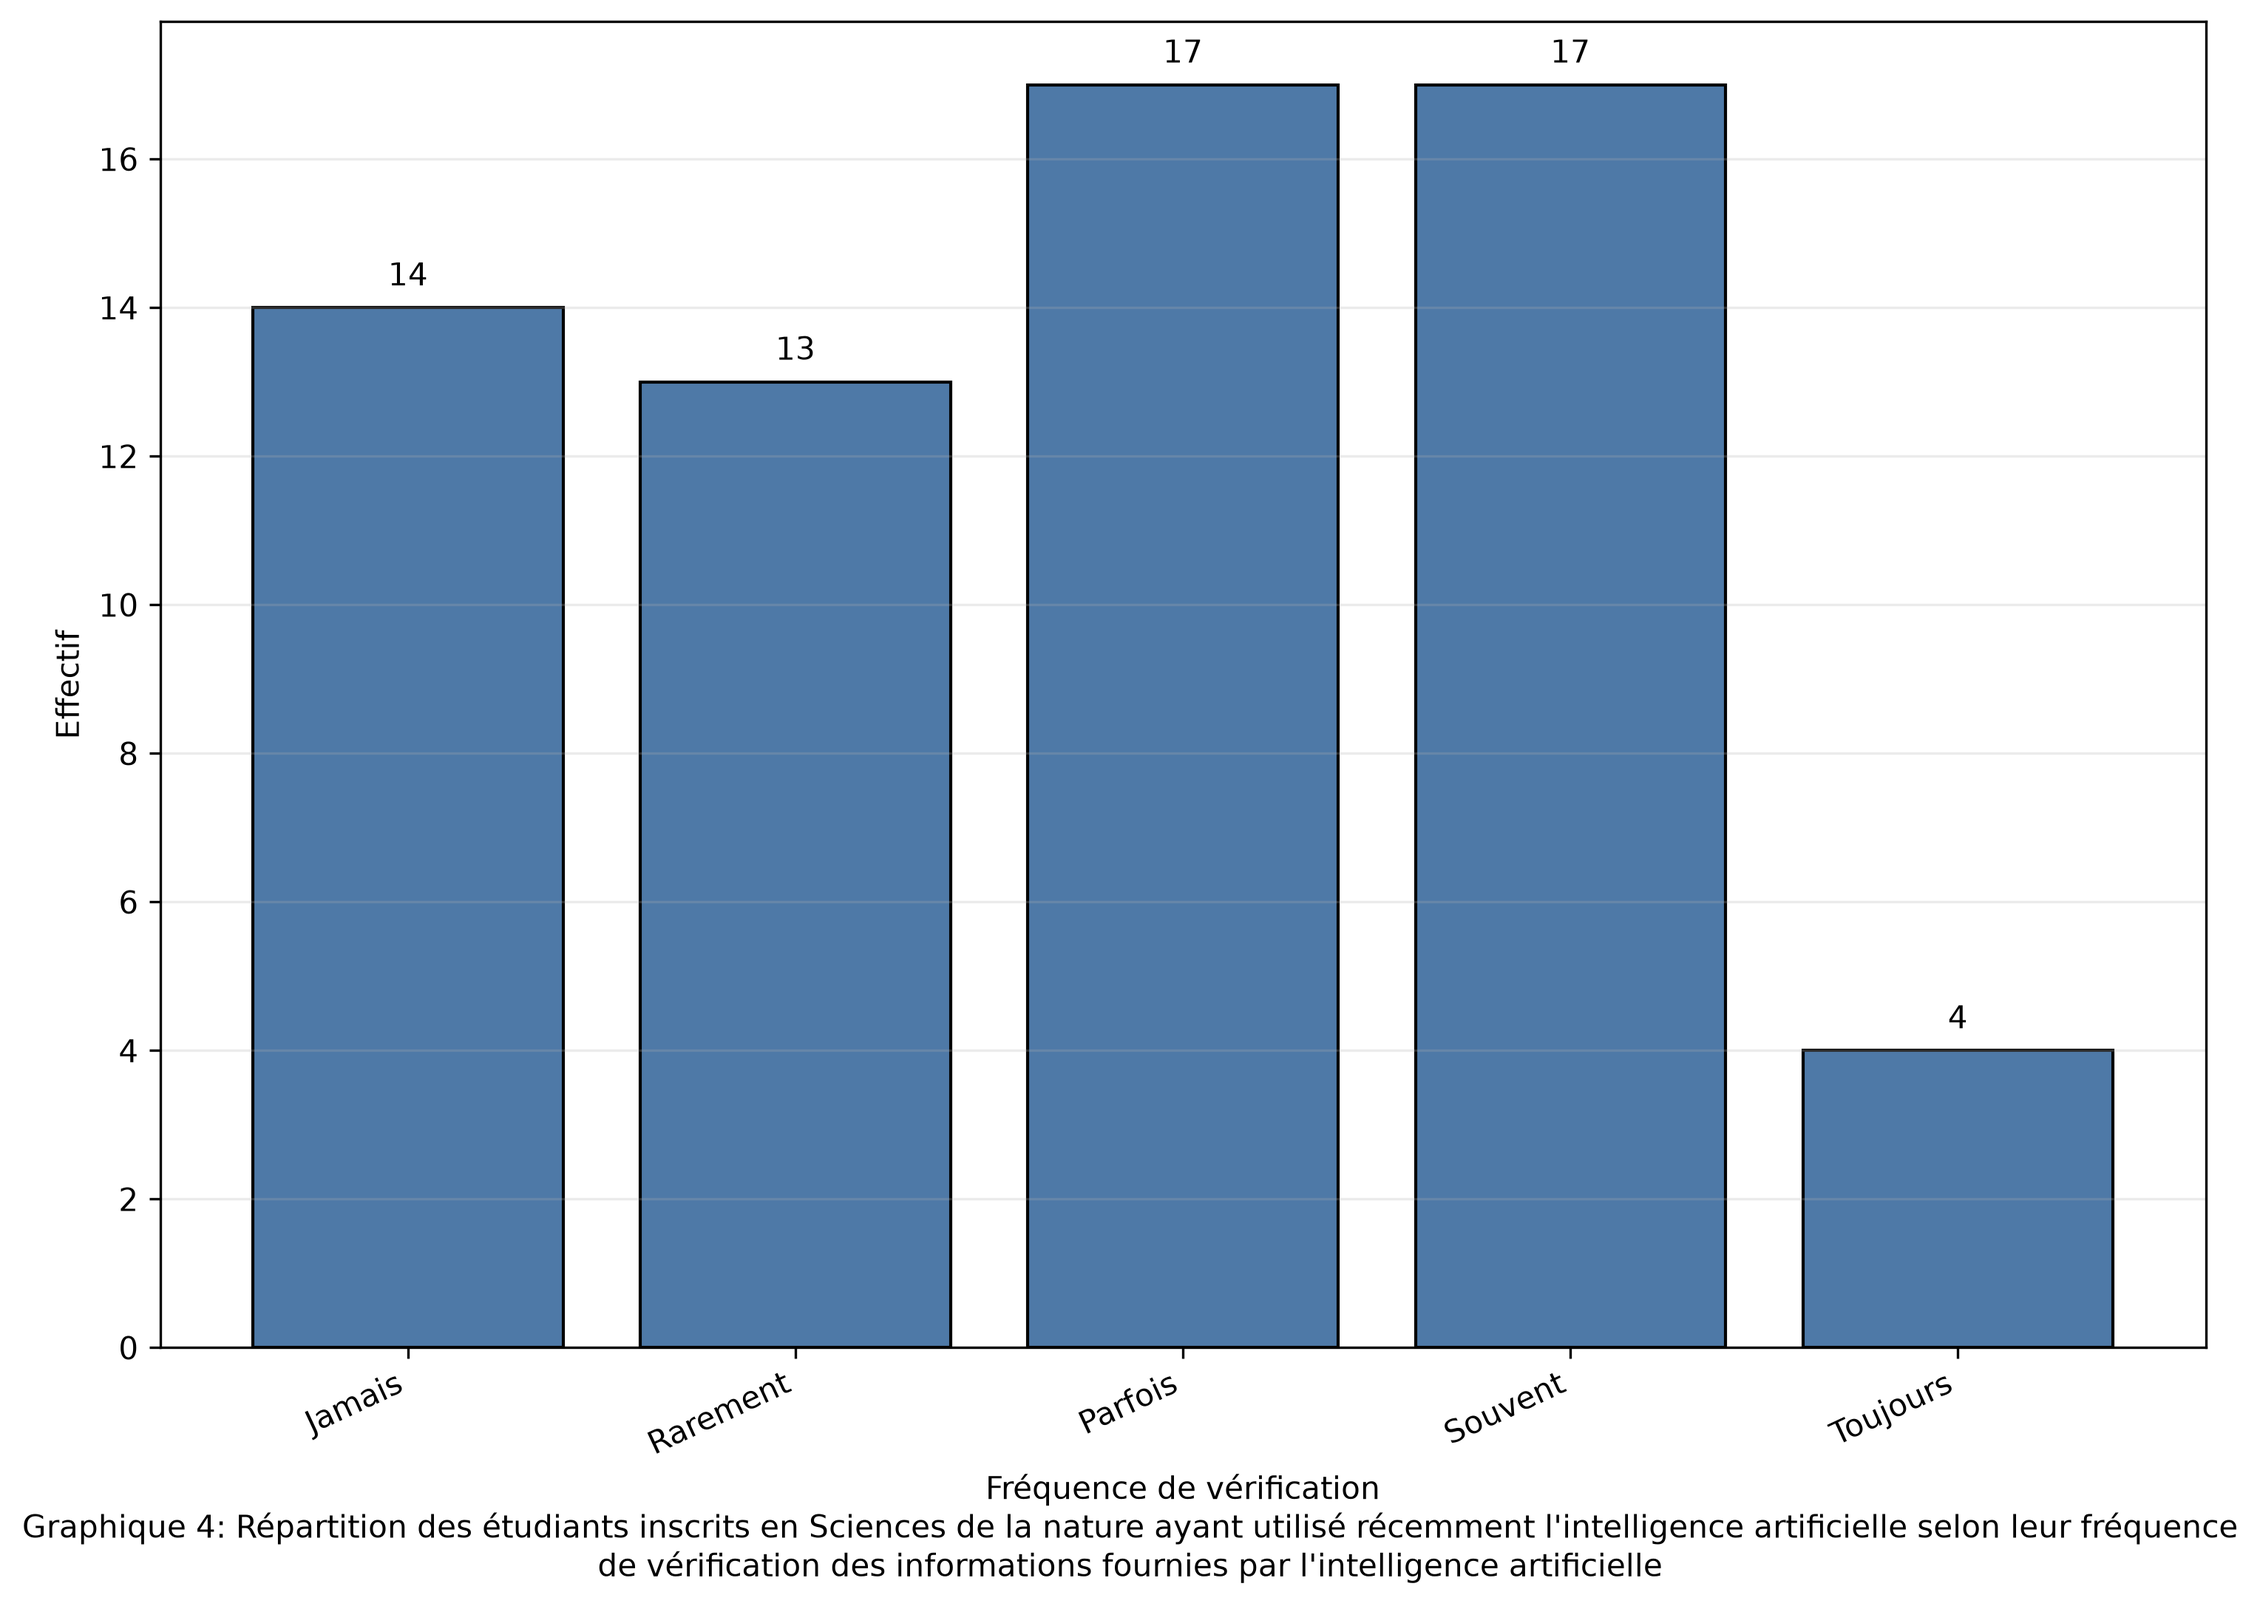
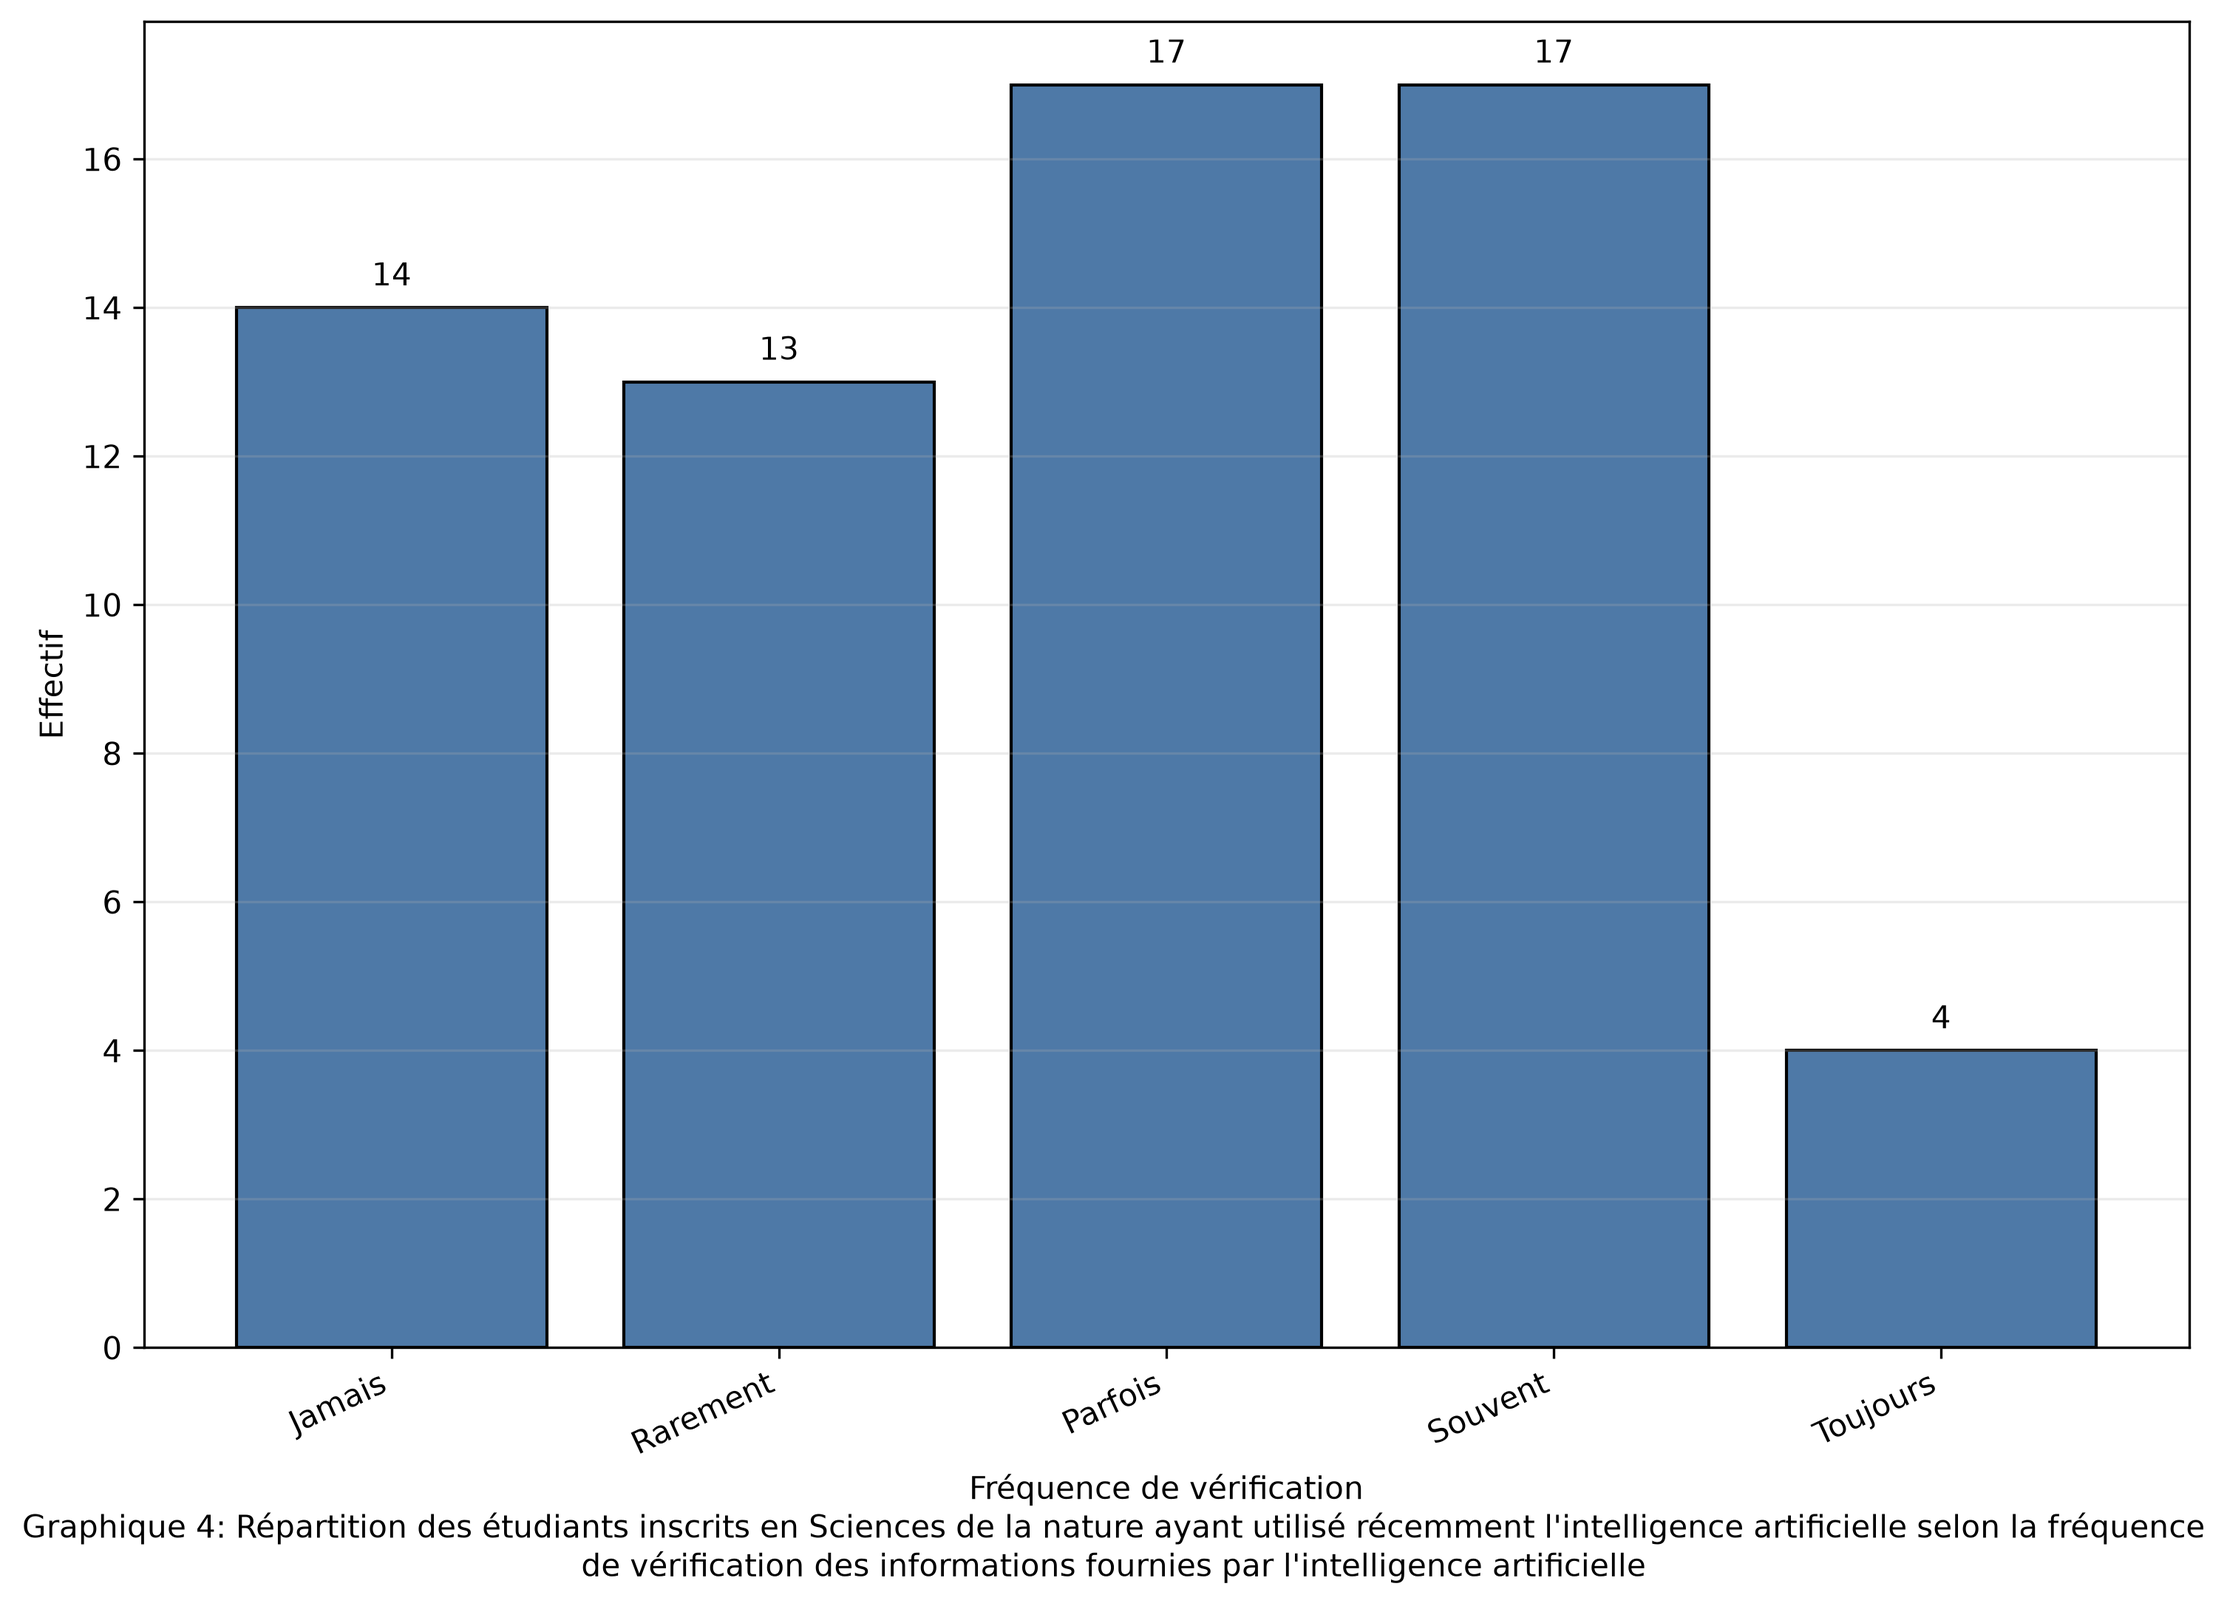
Correction des noms de certains tableaux et graphiques

diff --git a/src/analyse_donnees.py b/src/analyse_donnees.py
@@ -290,16 +290,16 @@ tableaux_qualitatifs = {
 titres_tableaux_qualitatifs = {
     "session": (
         "Répartition des étudiants inscrits en Sciences de la nature "
-        "selon leur session d'études"
+        "selon la session d'études"
     ),
     "utilisation_recente": (
         "Répartition des étudiants inscrits en Sciences de la nature "
-        "selon leur utilisation récente de l'intelligence artificielle"
+        "selon l'utilisation récente de l'intelligence artificielle"
     ),
     "usage_principal": (
         "Répartition des étudiants inscrits en Sciences de la nature "
         "ayant utilisé récemment l'intelligence artificielle selon "
-        "leur usage principal de l'intelligence artificielle"
+        "l'usage principal de l'intelligence artificielle"
     ),
     "outil_principal": (
         "Répartition des étudiants inscrits en Sciences de la nature "
@@ -309,7 +309,7 @@ titres_tableaux_qualitatifs = {
     "verification": (
         "Répartition des étudiants inscrits en Sciences de la nature "
         "ayant utilisé récemment l'intelligence artificielle selon "
-        "leur fréquence de vérification des informations fournies "
+        "la fréquence de vérification des informations fournies "
         "par l'intelligence artificielle"
     ),
     "utilite_percue": (
